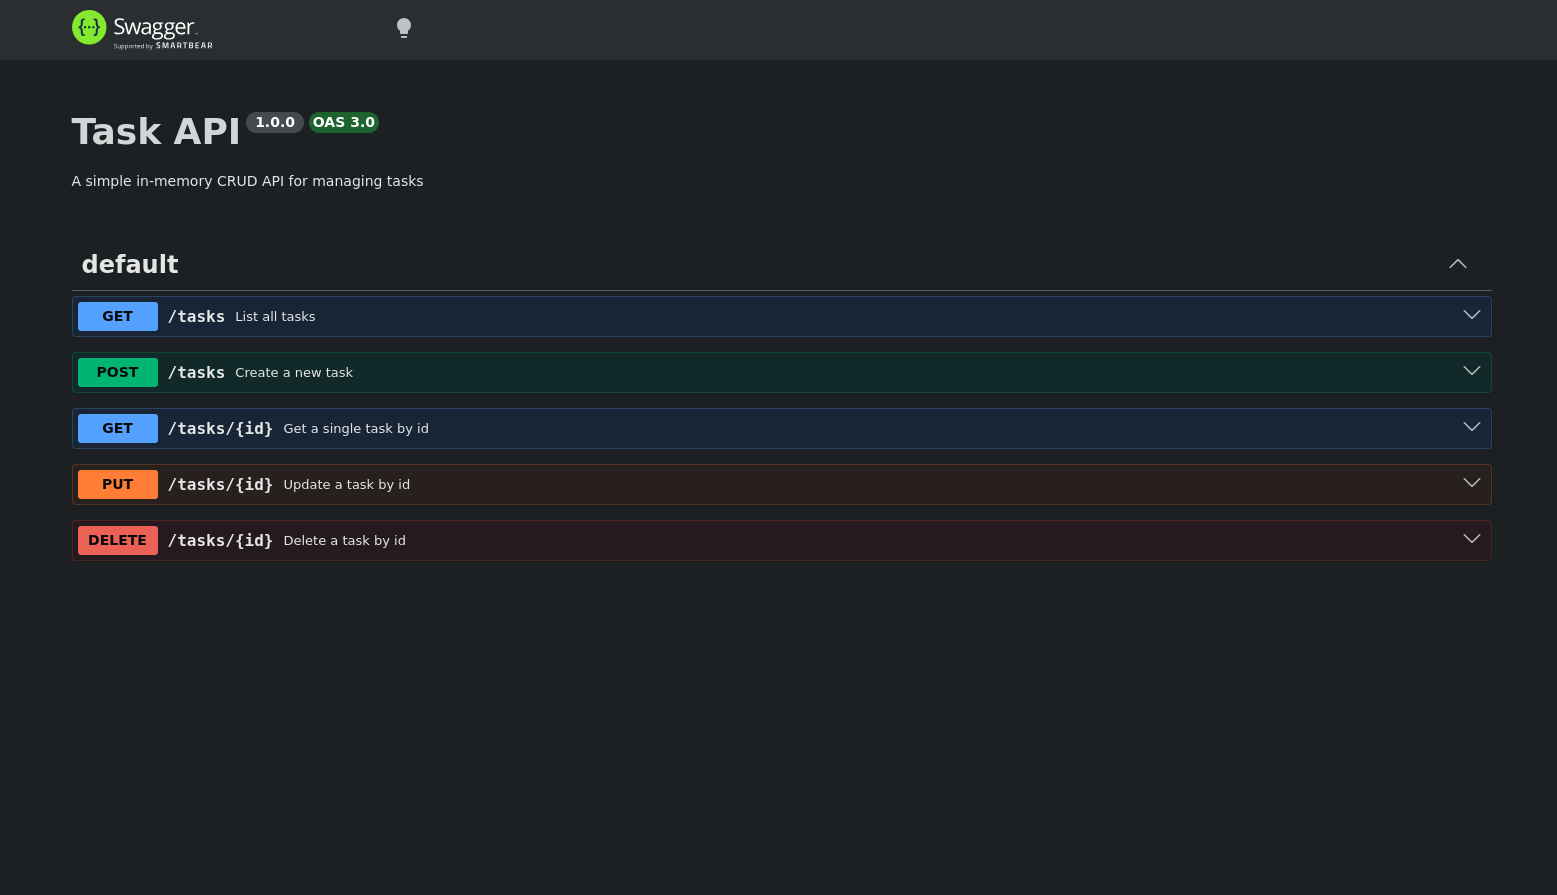
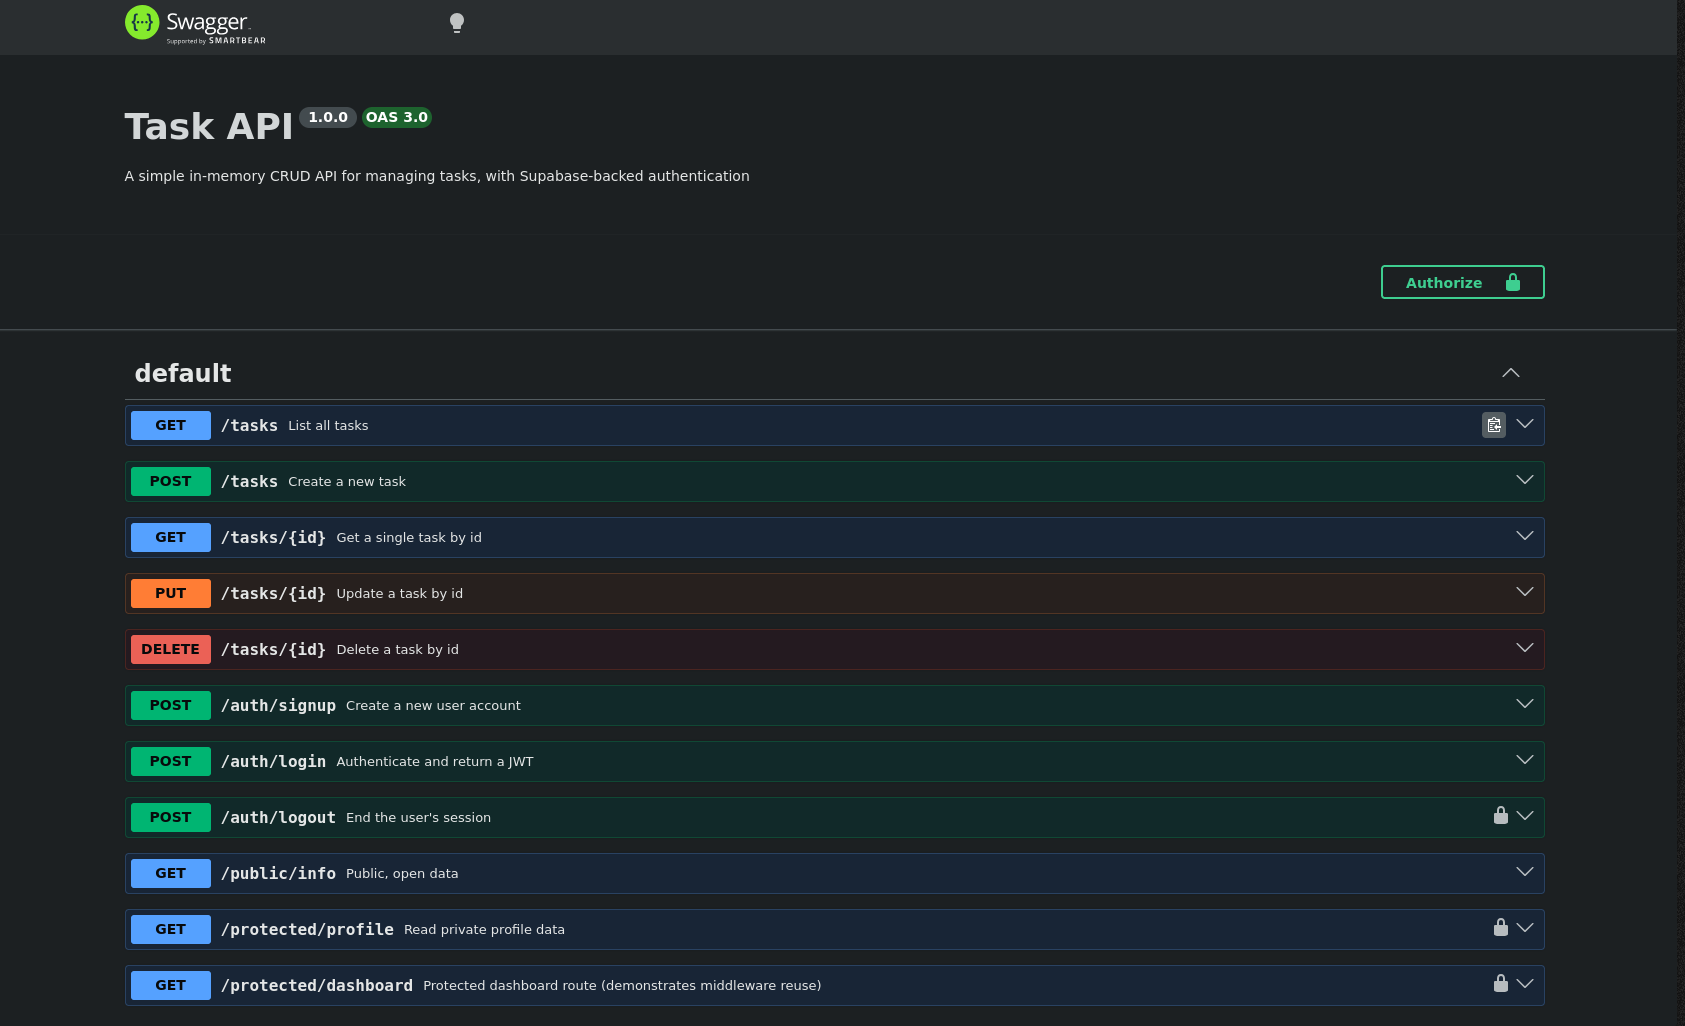
Stage 6: publish to GitHub and write README

diff --git a/README.md b/README.md
@@ -1,24 +1,38 @@
 # Task CRUD API
 
-A task management REST API built across three assignments:
+A task management REST API built across four assignments:
 
 - **Version 1** — in-memory storage (Express)
 - **Version 2** — SQLite file storage
-- **Version 3 (this)** — containerized PostgreSQL, with the whole stack (app + database) 
+- **Version 3** — containerized PostgreSQL, with the whole stack (app + database)
   started using a single `docker compose up`
+- **Version 4 (this)** — Supabase Auth added on top: sign up, log in, log out,
+  and protected routes guarded by JWT verification
 
-The API itself never changed across all three — only the storage underneath.
+The core task API never changed across all four — only the storage underneath,
+and now an authentication layer sitting alongside it.
 
 ## Run it
+
+**Option A — everything in Docker (recommended for a quick clone-and-run):**
 
 ```bash
 git clone https://github.com/udyzodd/task-crud-api.git
 cd task-crud-api
 cp .env.example .env
+# fill in your own SUPABASE_URL and SUPABASE_KEY in .env — see below
 docker compose up
 ```
 
-The API will be available at `http://localhost:3000`.
+**Option B — Postgres in Docker, API on your host (useful for active development):**
+
+```bash
+docker compose up -d db
+node main.js
+```
+
+The API is available at `http://localhost:3000` either way. Swagger docs are at
+`http://localhost:3000/docs`.
 
 ## Environment variables
 
@@ -26,19 +40,41 @@ See `.env.example` for the required keys. Copy it to `.env` before running:
 
 ```
 DATABASE_URL=postgres://postgres:dev@db:5432/tasks
+SUPABASE_URL=your_supabase_project_url
+SUPABASE_KEY=your_supabase_anon_key
+PORT=3000
 ```
 
-`.env` is git-ignored and never committed — only `.env.example` (with placeholder values) is tracked.
+- `DATABASE_URL` — points to `db` (the Docker service name) if running via
+  `docker compose up`; use `localhost` instead if running `node main.js` directly
+  on your host with only the `db` container up (Option B above).
+- `SUPABASE_URL` / `SUPABASE_KEY` — from your own Supabase project's
+  **Project Settings → API** page. Use the **anon / publishable** key — never the
+  `service_role` / secret key here.
+
+`.env` is git-ignored and never committed — only `.env.example` (with placeholder
+values) is tracked. No Supabase keys appear anywhere in this repo's git history.
 
 ## Endpoints
 
-| Method | Path | Description | Success | Errors |
-| --- | --- | --- | --- | --- |
-| GET | /tasks | List all tasks | 200 | —   |
-| GET | /tasks/:id | Get a single task | 200 | 404 |
-| POST | /tasks | Create a task | 201 | 400 |
-| PUT | /tasks/:id | Update a task | 200 | 400, 404 |
-| DELETE | /tasks/:id | Delete a task | 204 | 404 |
+| Method | Path | Description | Auth required | Success | Errors |
+| --- | --- | --- | --- | --- | --- |
+| GET | /tasks | List all tasks | No | 200 | — |
+| GET | /tasks/:id | Get a single task | No | 200 | 404 |
+| POST | /tasks | Create a task | No | 201 | 400 |
+| PUT | /tasks/:id | Update a task | No | 200 | 400, 404 |
+| DELETE | /tasks/:id | Delete a task | No | 204 | 404 |
+| POST | /auth/signup | Create a new user account | No | 201 | 400 |
+| POST | /auth/login | Authenticate & return a JWT | No | 200 | 400, 401 |
+| POST | /auth/logout | End the user's session | Yes (Bearer) | 204 | 401 |
+| GET | /public/info | Public, open data | No | 200 | — |
+| GET | /protected/profile | Read private profile data | Yes (Bearer) | 200 | 401 |
+| GET | /protected/dashboard | Protected dashboard (demonstrates middleware reuse) | Yes (Bearer) | 200 | 401 |
+
+Protected routes expect `Authorization: Bearer <access_token>`, where the token
+comes from `POST /auth/login`. Tokens are verified against Supabase on every
+request via a shared `authGuard` middleware — no auth logic is duplicated
+across routes.
 
 ## Example
 
@@ -53,9 +89,42 @@ Content-Type: application/json; charset=utf-8
 [{"id":1,"title":"Buy milk","done":false},{"id":2,"title":"Walk the dog","done":true},{"id":3,"title":"Finish assignment","done":false}]
 ```
 
+```bash
+curl -i -X POST http://localhost:3000/auth/login \
+  -H "Content-Type: application/json" \
+  -d '{"email":"test@example.com","password":"password123"}'
+```
+
+```
+HTTP/1.1 200 OK
+Content-Type: application/json; charset=utf-8
+
+{"access_token":"eyJhbGci...","refresh_token":"..."}
+```
+
+```bash
+curl -i http://localhost:3000/protected/profile \
+  -H "Authorization: Bearer <access_token>"
+```
+
+```
+HTTP/1.1 200 OK
+Content-Type: application/json; charset=utf-8
+
+{"id":"25a01131-...","email":"test@example.com","created_at":"2026-08-01T06:59:18.211767Z"}
+```
+
+## Swagger UI
+
+Interactive docs with a bearer-token "Authorize" flow are served at `/docs`.
+Protected routes show a lock icon; paste an access token (no `Bearer ` prefix
+needed) to authorize, then "Try it out" works directly in the browser.
+
+![Swagger UI — authorized request to /protected/profile](swagger-ui-screenshot.png)
+
 ## Persistence
 
-Task data survives a full stack restart, since it lives in a named Docker volume 
+Task data survives a full stack restart, since it lives in a named Docker volume
 (`taskdata`) rather than inside the containers themselves:
 
 ```bash
@@ -63,24 +132,32 @@ docker compose down
 docker compose up
 ```
 
-Tested: created tasks, tore the whole stack down, brought it back up — same rows, same data.
+Tested: created tasks, tore the whole stack down, brought it back up — same rows,
+same data.
 
 ## Notes / troubleshooting
 
-- **Postgres 18 data directory format**: the official `postgres` image changed its 
-  expected data-directory layout in v18. Running the plain `docker run` command with 
-  `-v taskdata:/var/lib/postgresql/data` caused a startup crash (`Exited (1)`) whenever 
-  the volume had any pre-existing filesystem artifacts (e.g. a `lost+found` folder created 
+- **Postgres 18 data directory format**: the official `postgres` image changed its
+  expected data-directory layout in v18. Running the plain `docker run` command with
+  `-v taskdata:/var/lib/postgresql/data` caused a startup crash (`Exited (1)`) whenever
+  the volume had any pre-existing filesystem artifacts (e.g. a `lost+found` folder created
   by the filesystem itself, which Postgres's init script mistook for leftover database data).
-  **Fix**: set `PGDATA=/var/lib/postgresql/data/pgdata` on the `db` service, so Postgres 
+  **Fix**: set `PGDATA=/var/lib/postgresql/data/pgdata` on the `db` service, so Postgres
   stores its files one level deeper inside the mount, away from any filesystem-level clutter.
-- **Startup race condition**: `depends_on` alone only waits for the `db` container to 
-  *start*, not for Postgres to actually be ready to accept connections — Postgres takes a 
-  few seconds to initialize on a fresh volume. The `api` service crashed with `ECONNREFUSED` 
+- **Startup race condition**: `depends_on` alone only waits for the `db` container to
+  *start*, not for Postgres to actually be ready to accept connections — Postgres takes a
+  few seconds to initialize on a fresh volume. The `api` service crashed with `ECONNREFUSED`
   on the first `docker compose up` attempt as a result.
-  **Fix**: added a `healthcheck` (`pg_isready`) to the `db` service, and changed `api`'s 
-  `depends_on` to `condition: service_healthy`, so the app only starts once Postgres is 
+  **Fix**: added a `healthcheck` (`pg_isready`) to the `db` service, and changed `api`'s
+  `depends_on` to `condition: service_healthy`, so the app only starts once Postgres is
   confirmed ready.
+- **Running the API on your host while Postgres stays in Docker**: the `db` service's
+  port must be published to the host (`ports: ["5432:5432"]`) for this to work — without
+  it, only other Docker containers on the same network can reach Postgres, not a process
+  running directly on the machine.
+- **Access tokens expire** (Supabase default: 1 hour). If a protected route or Swagger's
+  "Try it out" returns `401 Invalid or expired token`, log in again via `/auth/login` to
+  get a fresh token.
 
 ## Database screenshot
 
